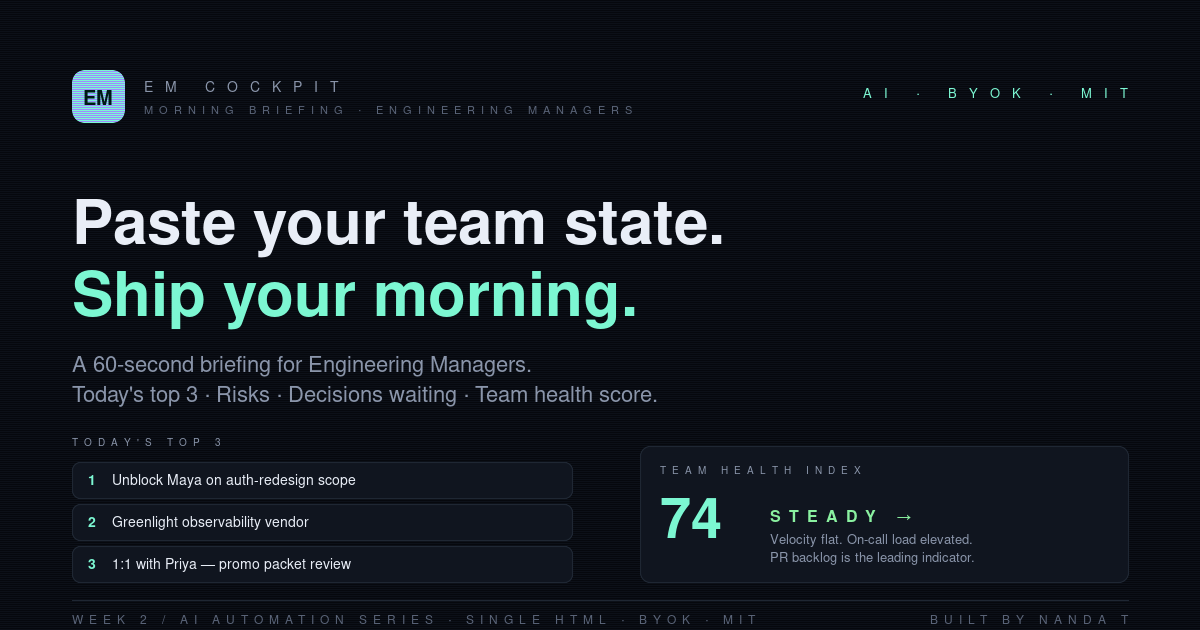
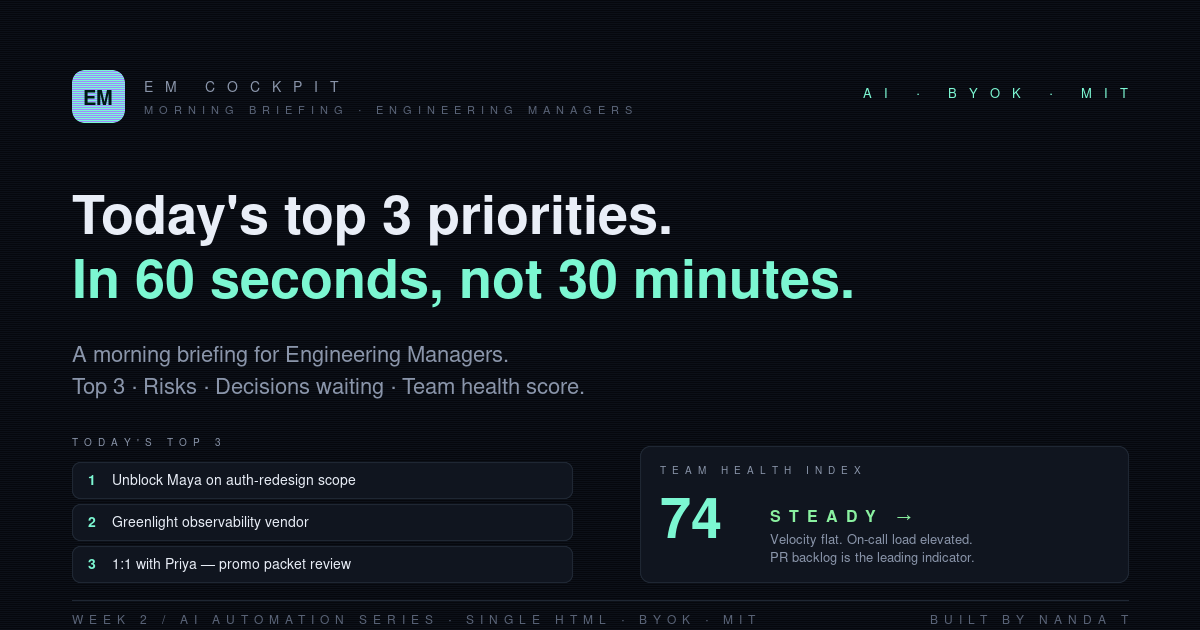
feat(em-cockpit): sharper headline — Today's top 3 priorities

Changed region(s): [[0.0617, 0.3016, 0.7092, 0.6333]]

diff --git a/em-cockpit/index.html b/em-cockpit/index.html
@@ -173,9 +173,9 @@
 
   <!-- HERO -->
   <section class="hero">
-    <div class="kicker">RUN YOUR ENGINEERING WEEK IN 60 SECONDS</div>
-    <h1>Paste your team state. <span class="hl">Ship your morning.</span></h1>
-    <p class="lead">A briefing tool for Engineering Managers. Paste what's in flight — sprints, on-call, open PRs, 1:1 follow-ups, decisions waiting — and get a <b>prioritized focus list, risks to watch,</b> and a team-health score, before standup.</p>
+    <div class="kicker">60-SECOND MORNING BRIEFING · ENGINEERING MANAGERS</div>
+    <h1>Today's top 3 priorities. <span class="hl">In 60 seconds, not 30 minutes.</span></h1>
+    <p class="lead">A briefing tool for Engineering Managers. Paste what's in flight — sprints, on-call, open PRs, 1:1 follow-ups, decisions waiting — and get a <b>prioritized focus list, risks to watch,</b> and a team-health score. Before standup.</p>
   </section>
 
   <!-- GRID -->